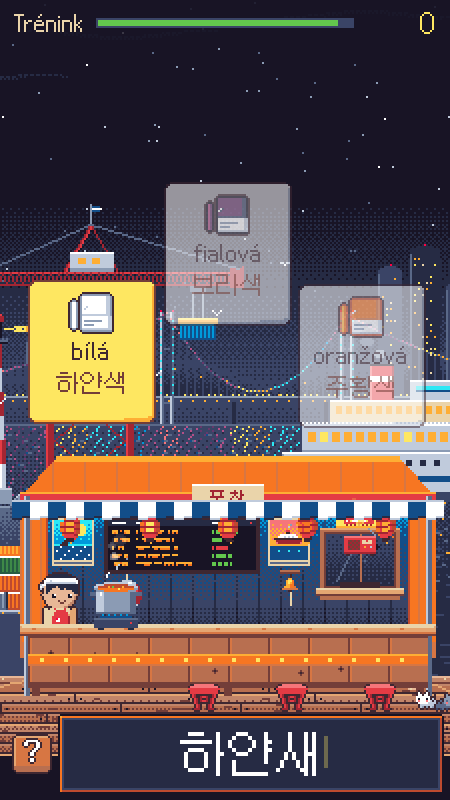
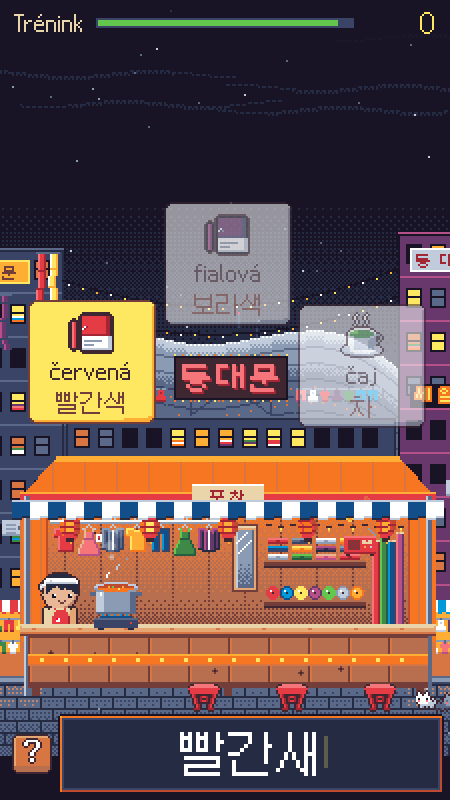
Training bubbles without the empty patience row; Cargo.lock 0.2.0

diff --git a/src/scenes/Training.ts b/src/scenes/Training.ts
@@ -128,7 +128,10 @@ export class TrainingScene extends Phaser.Scene {
     const order: Order = { tokens: [{ id, ko: w.ko }], target: w.ko, cs: w.cs, icons: [w.icon], extra: w.loan, hinted: false, mistakes: [false], kind: 'generic' };
     const b = new Bubble(this, order, 66);
     b.setPatience(1);
+    // no patience in training: drop the bar row
     b.bar.setVisible(false); b.barBg.setVisible(false); b.face.setVisible(false);
+    b.bh -= 10;
+    b.bg.setSize(b.bw, b.bh);
     this.slots[i] = { order, bubble: b, dirty: false };
     this.placeBubble(i);
     b.setScale(0.2).setAlpha(0);
